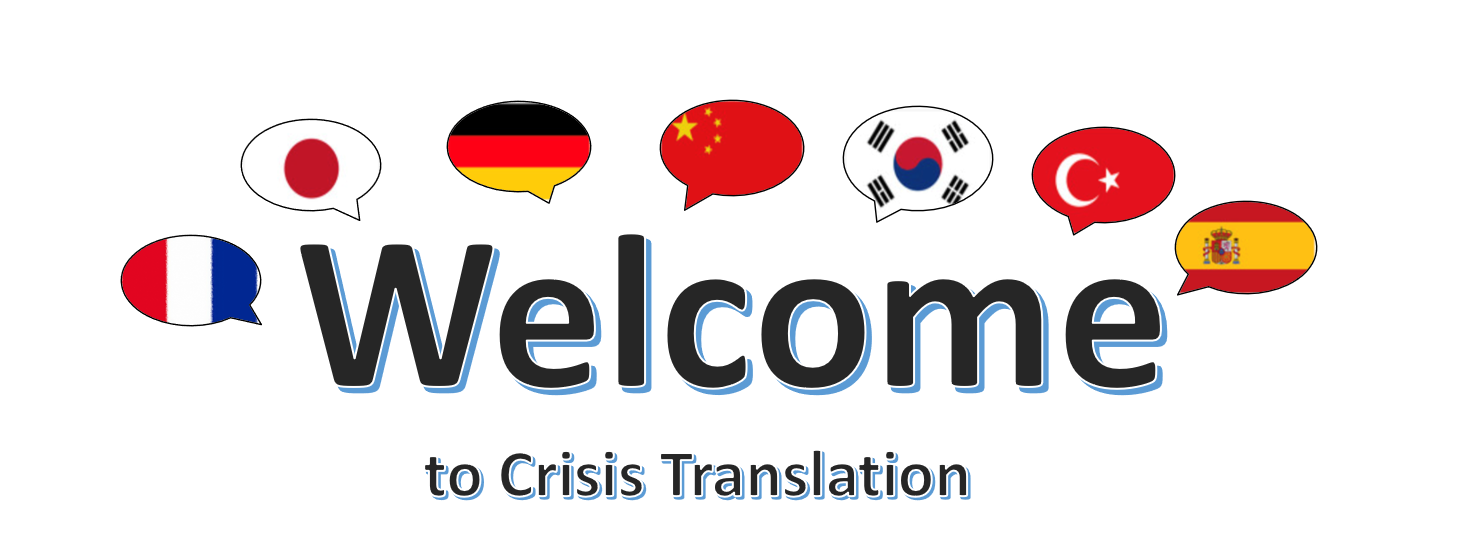
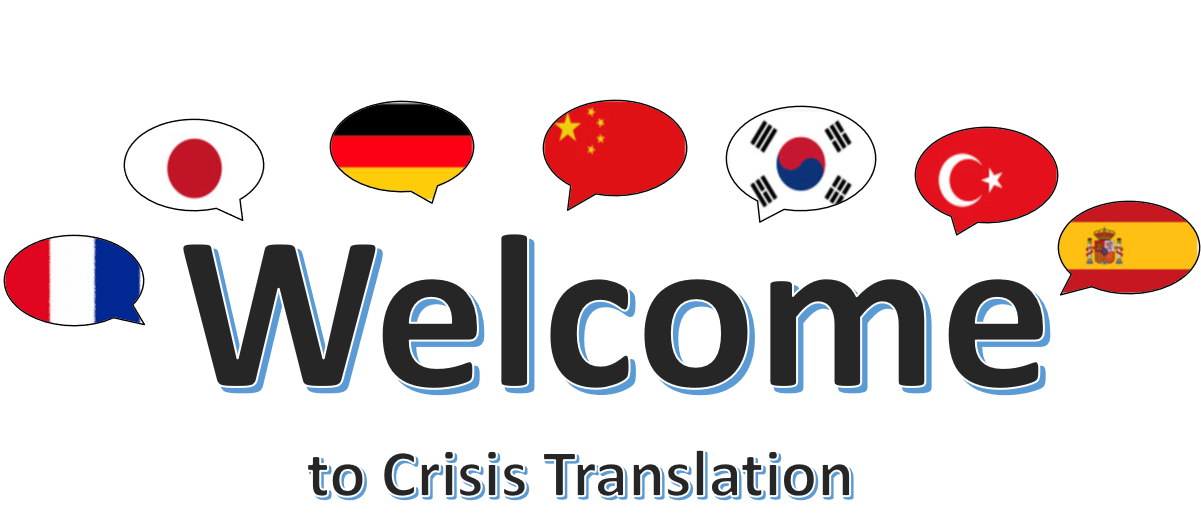
[CMLG-001]  Centred the image
Issue:
Image is not centred on the page

Solution:
Removed whitespace in image to make it even on both the sides. Adjusted code to match new width.

Risk:--

Reviewed by: Yujia, Emily, Eileen, Kevin, Dave

Changed region(s): [[0.0, 0.1829, 1.0, 0.7619], [0.2465, 0.8533, 0.7086, 0.9752], [0.1232, 0.1829, 0.4005, 0.4267]]

diff --git a/src/components/css/WelcomePage.css b/src/components/css/WelcomePage.css
@@ -46,7 +46,7 @@ p {
     }
     
     #background-img {
-        width: 90%
+        width: 80%
     }
     
 }
@@ -67,7 +67,7 @@ p {
     }
     
     #background-img {
-        width: 60%
+        width: 50%
     }
 
     .btn {
